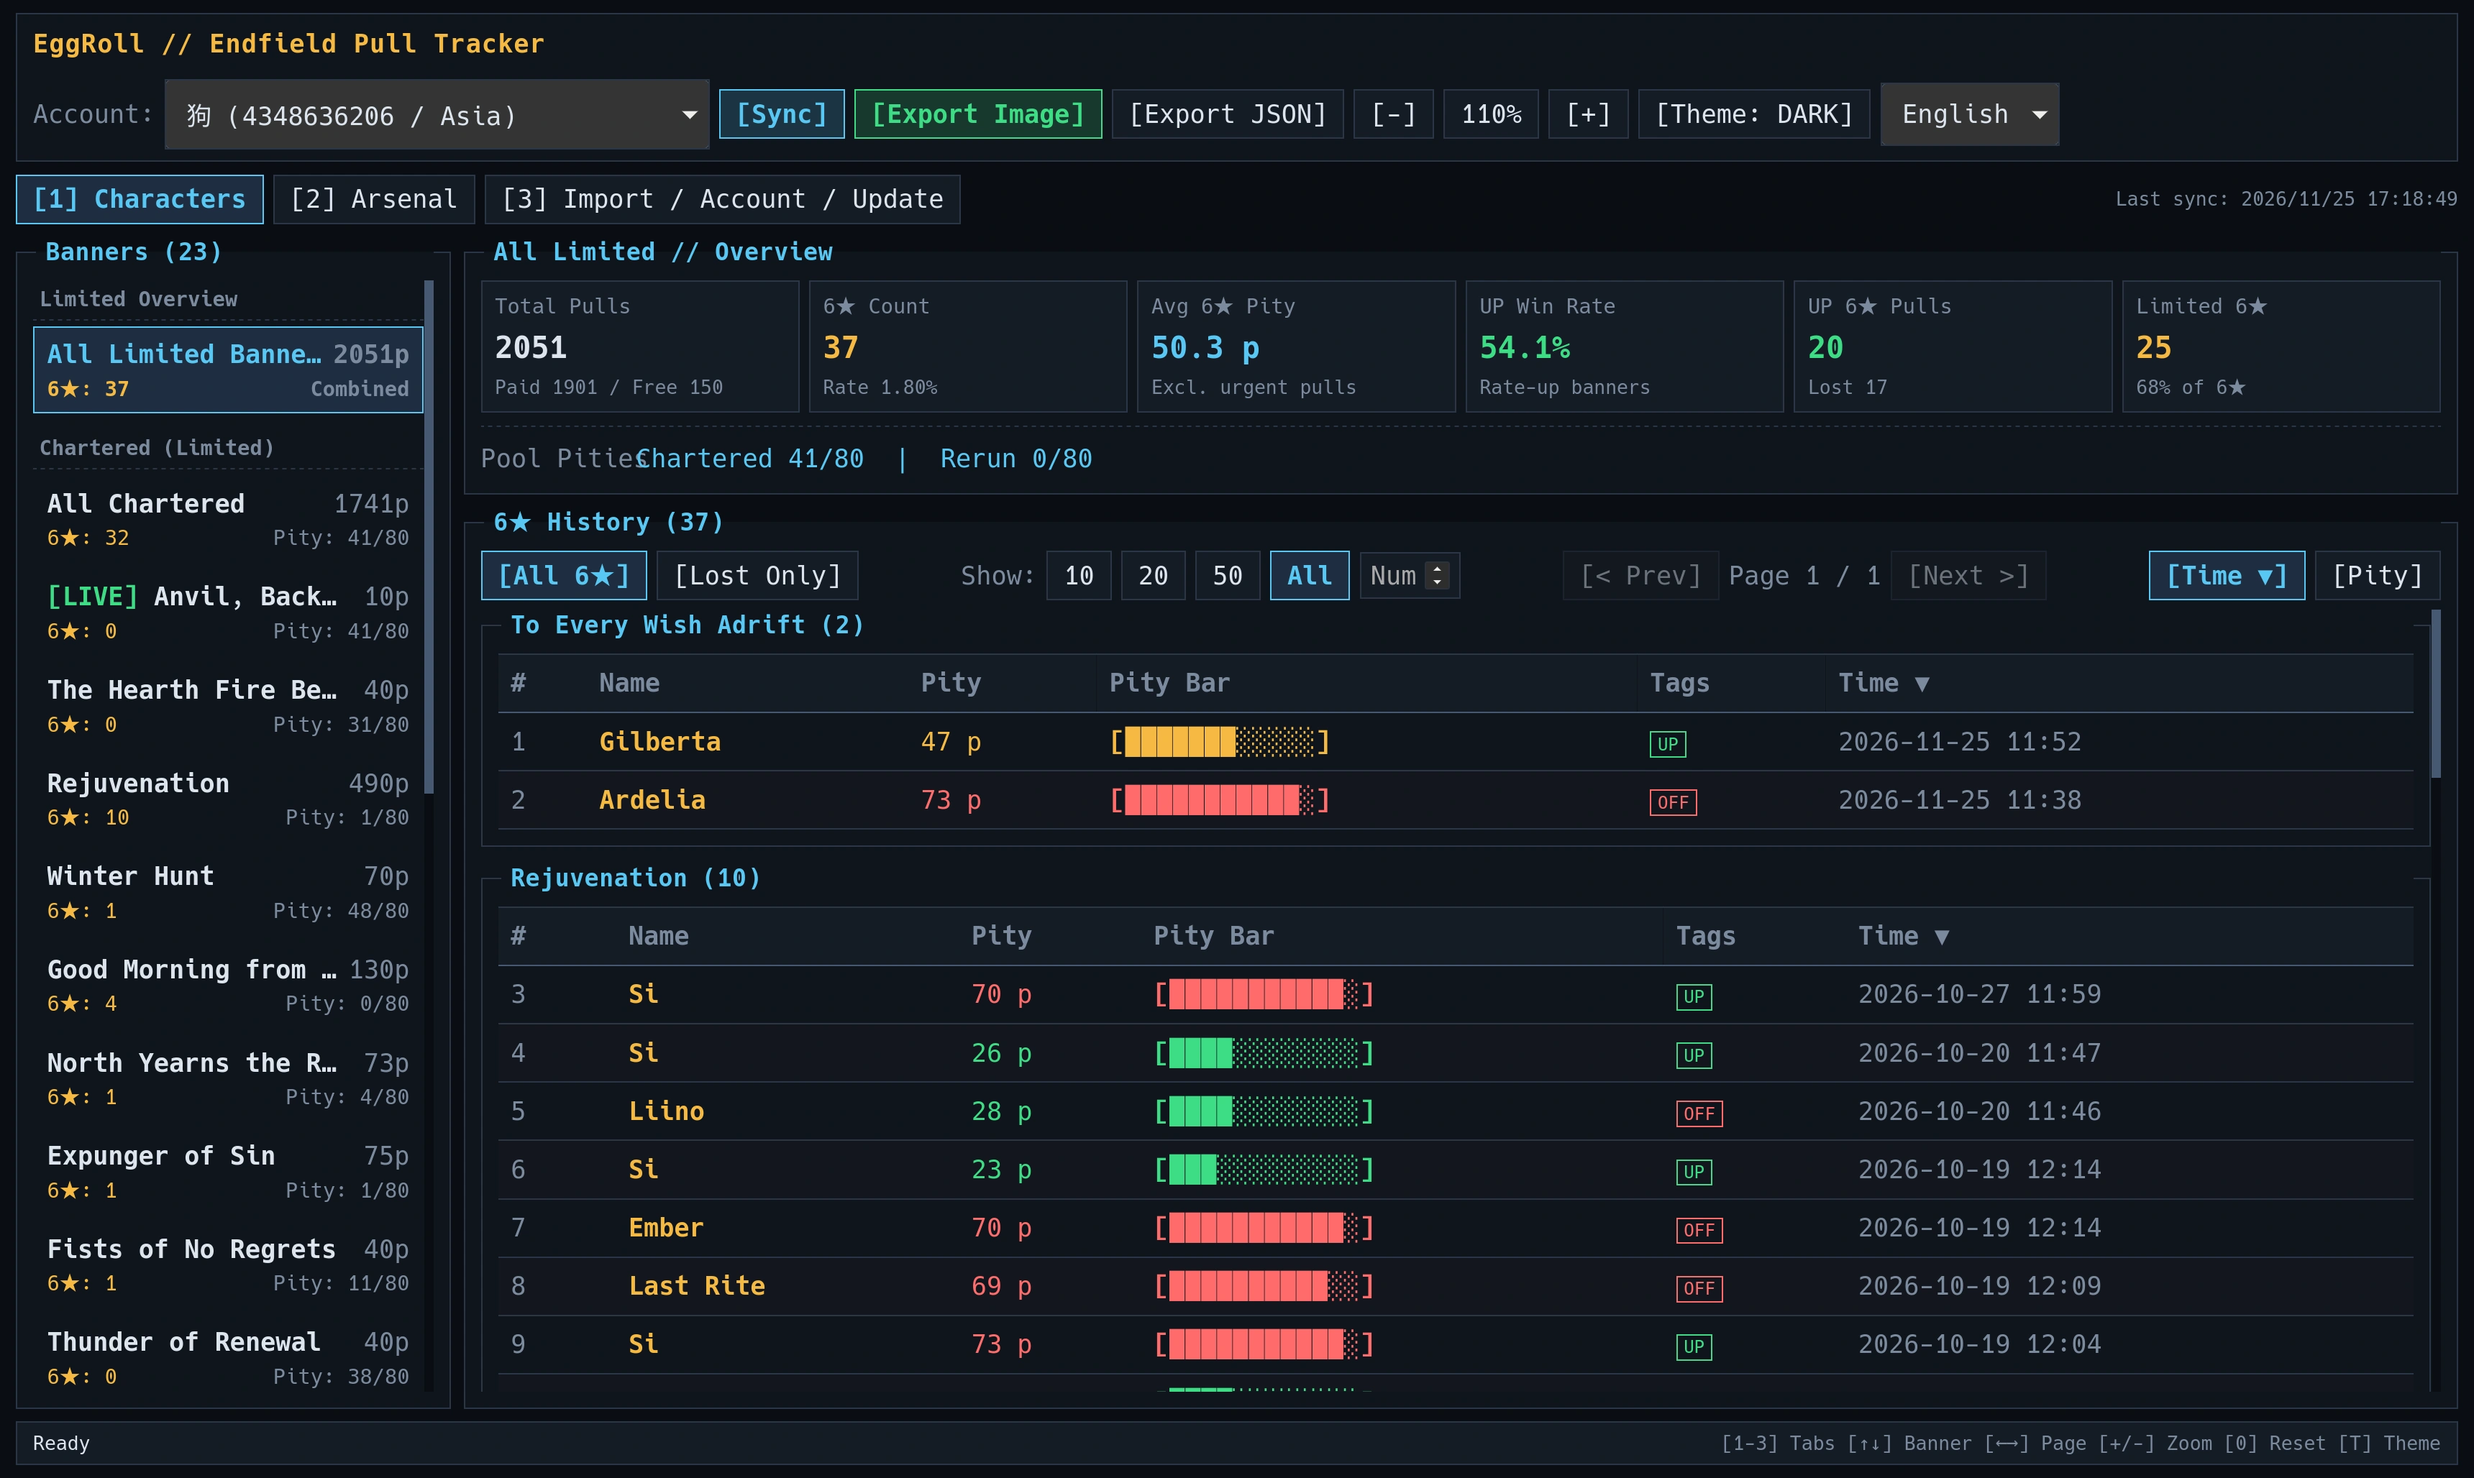
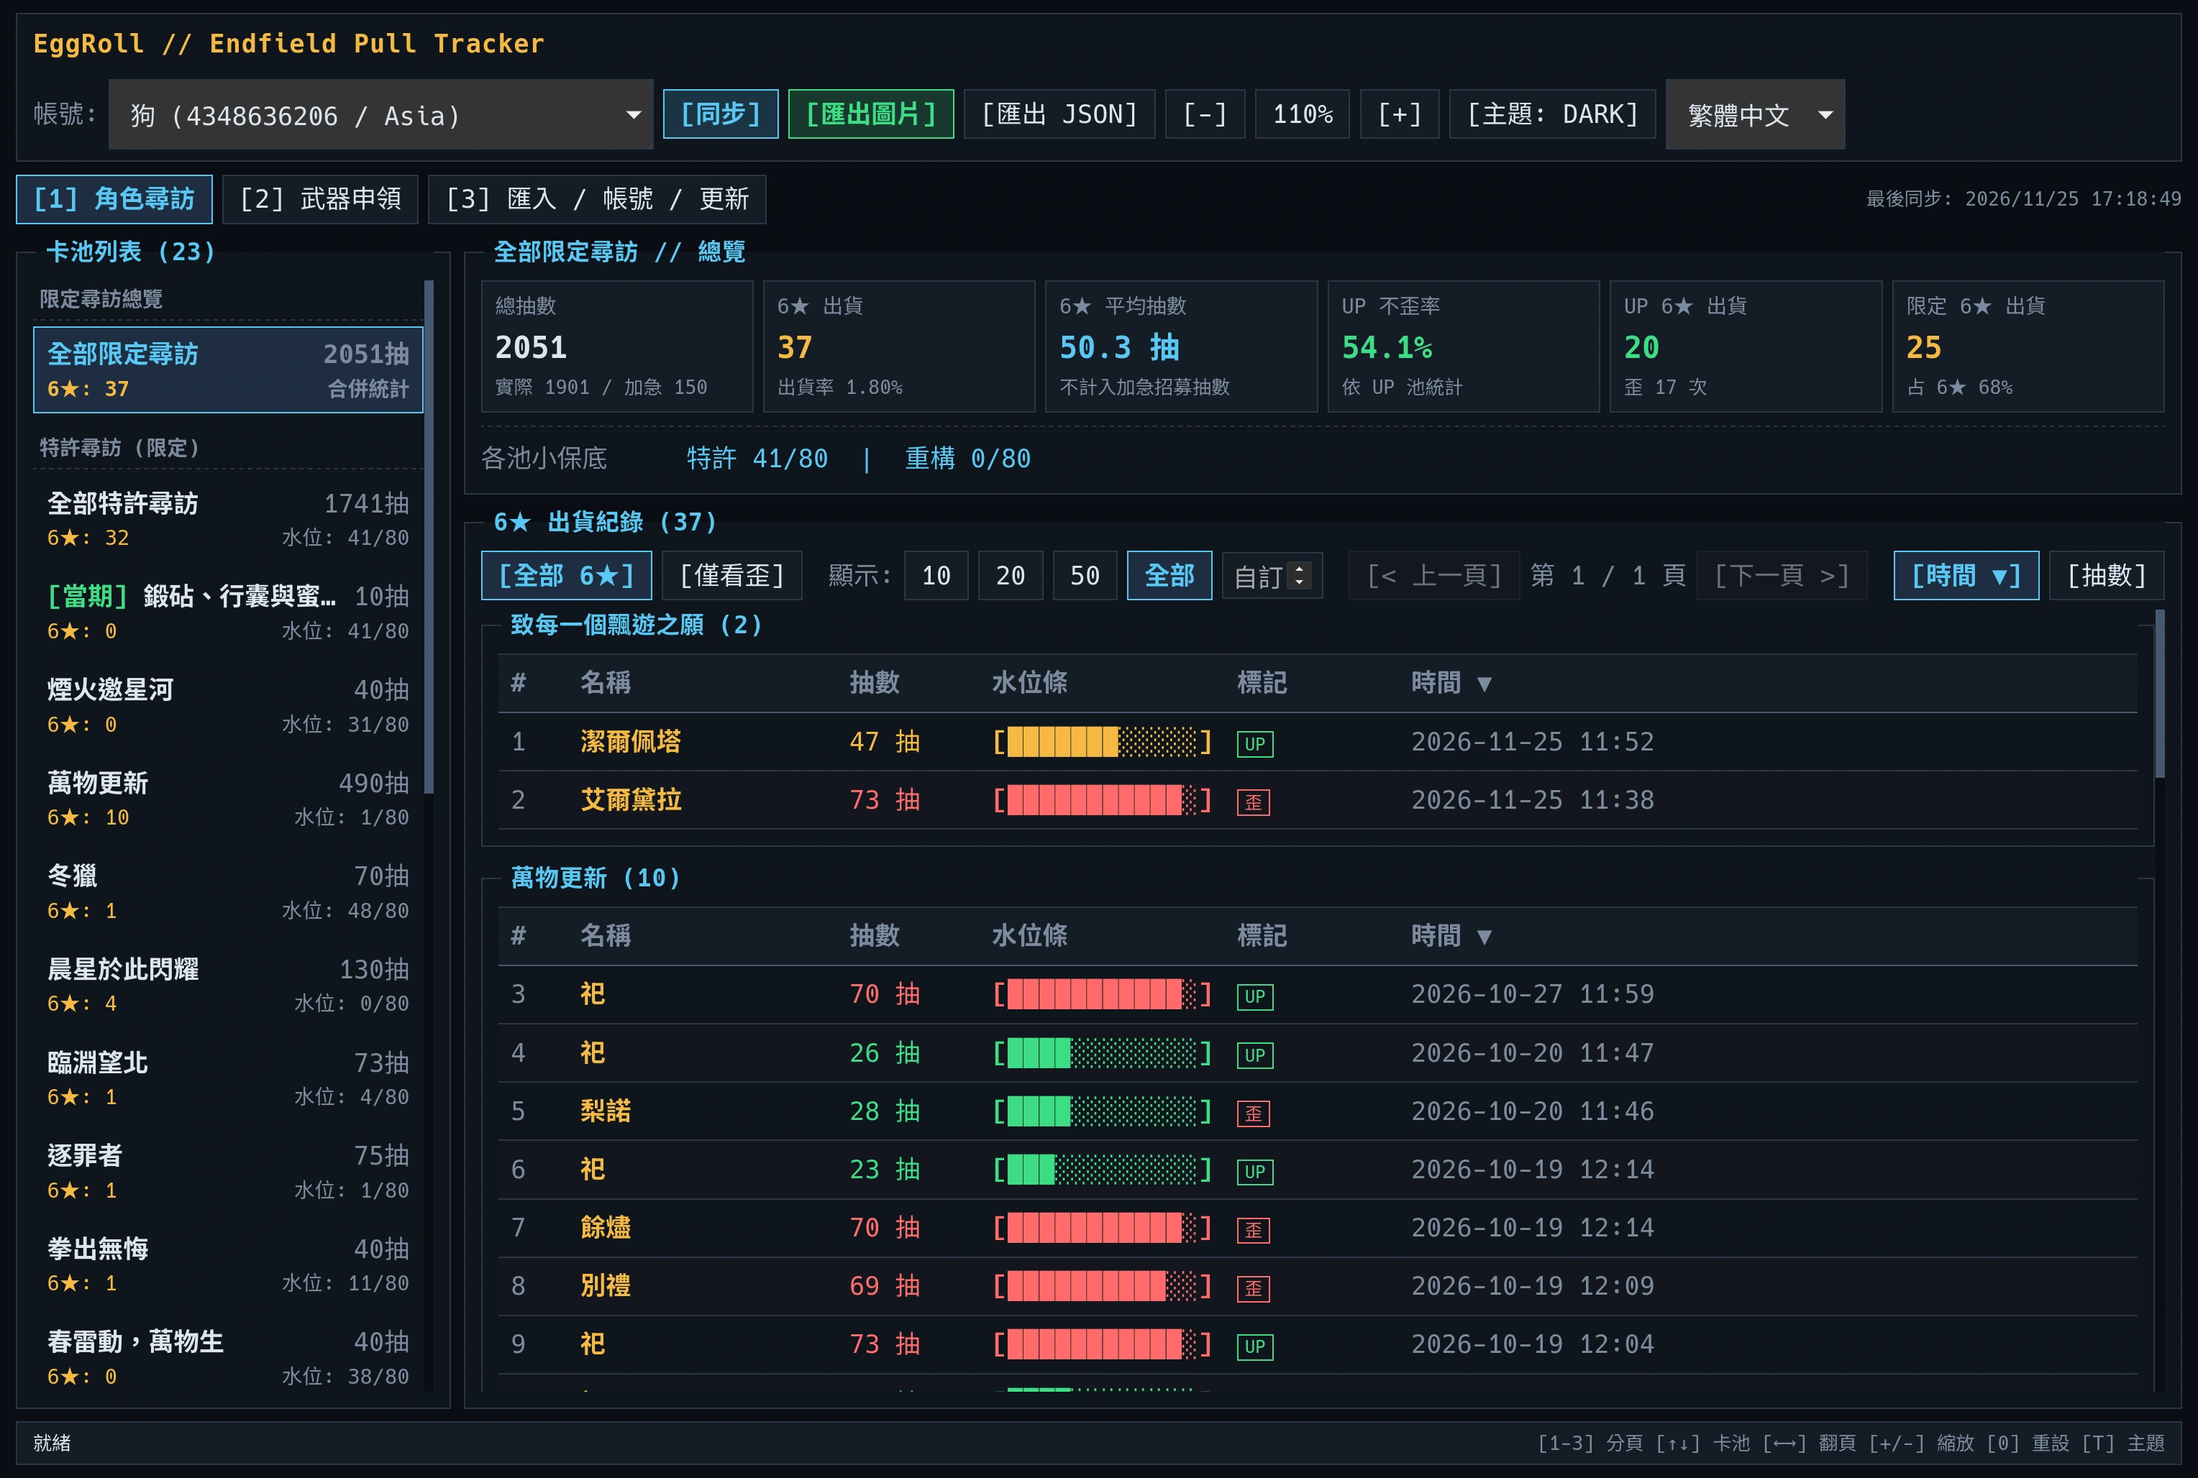
fix: align history table columns, fix Pool Pities label width, and update README screenshots

diff --git a/src/style.css b/src/style.css
@@ -445,7 +445,7 @@ legend.tui-legend {
 
 .pity-row {
   display: grid;
-  grid-template-columns: 88px auto minmax(0, 1fr);
+  grid-template-columns: minmax(120px, auto) auto minmax(0, 1fr);
   align-items: center;
   gap: 10px;
 }
@@ -486,6 +486,43 @@ legend.tui-legend {
 table {
   width: 100%;
   border-collapse: collapse;
+}
+
+.history-table {
+  table-layout: fixed;
+}
+
+.history-table th:nth-child(1),
+.history-table td:nth-child(1) {
+  width: 44px;
+}
+
+.history-table th:nth-child(2),
+.history-table td:nth-child(2) {
+  width: 170px;
+  overflow: hidden;
+  text-overflow: ellipsis;
+}
+
+.history-table th:nth-child(3),
+.history-table td:nth-child(3) {
+  width: 90px;
+}
+
+.history-table th:nth-child(4),
+.history-table td:nth-child(4) {
+  width: 155px;
+}
+
+.history-table th:nth-child(5),
+.history-table td:nth-child(5) {
+  width: 110px;
+}
+
+.history-table th:nth-child(6),
+.history-table td:nth-child(6) {
+  overflow: hidden;
+  text-overflow: ellipsis;
 }
 
 th,

diff --git a/src/main.ts b/src/main.ts
@@ -658,7 +658,7 @@ function renderStatsView(entries: PoolEntry[]): string {
   let historyContentHtml = "";
   if (displayedHistory.length === 0) {
     historyContentHtml = `
-      <table>
+      <table class="history-table">
         <thead>
           <tr>
             <th>#</th>
@@ -693,7 +693,7 @@ function renderStatsView(entries: PoolEntry[]): string {
             (g) => `
               <fieldset class="tui-panel pool-history-box">
                 <legend class="tui-legend">${escapeHtml(g.title)} (${g.items.length})</legend>
-                <table>
+                <table class="history-table">
                   <thead>
                     <tr>
                       <th>#</th>
@@ -716,7 +716,7 @@ function renderStatsView(entries: PoolEntry[]): string {
     `;
   } else {
     historyContentHtml = `
-      <table>
+      <table class="history-table">
         <thead>
           <tr>
             <th>#</th>

diff --git a/src/imageExport.ts b/src/imageExport.ts
@@ -275,7 +275,7 @@ export async function renderStatsToImageBytes(params: {
 
   // Pity bars
   const pityY = kpiY + kpiH + Math.round(22 * fontScale);
-  const barX = padX + Math.round(114 * fontScale);
+  const barX = padX + Math.round(132 * fontScale);
   const barWidth = logicalWidth >= 1200 ? 28 : logicalWidth <= 700 ? 16 : 22;
   const smallRem = Math.max(0, stat.smallPityMax - stat.pityCount);
   const smallBar = renderAsciiBar(stat.pityCount, stat.smallPityMax, barWidth);
